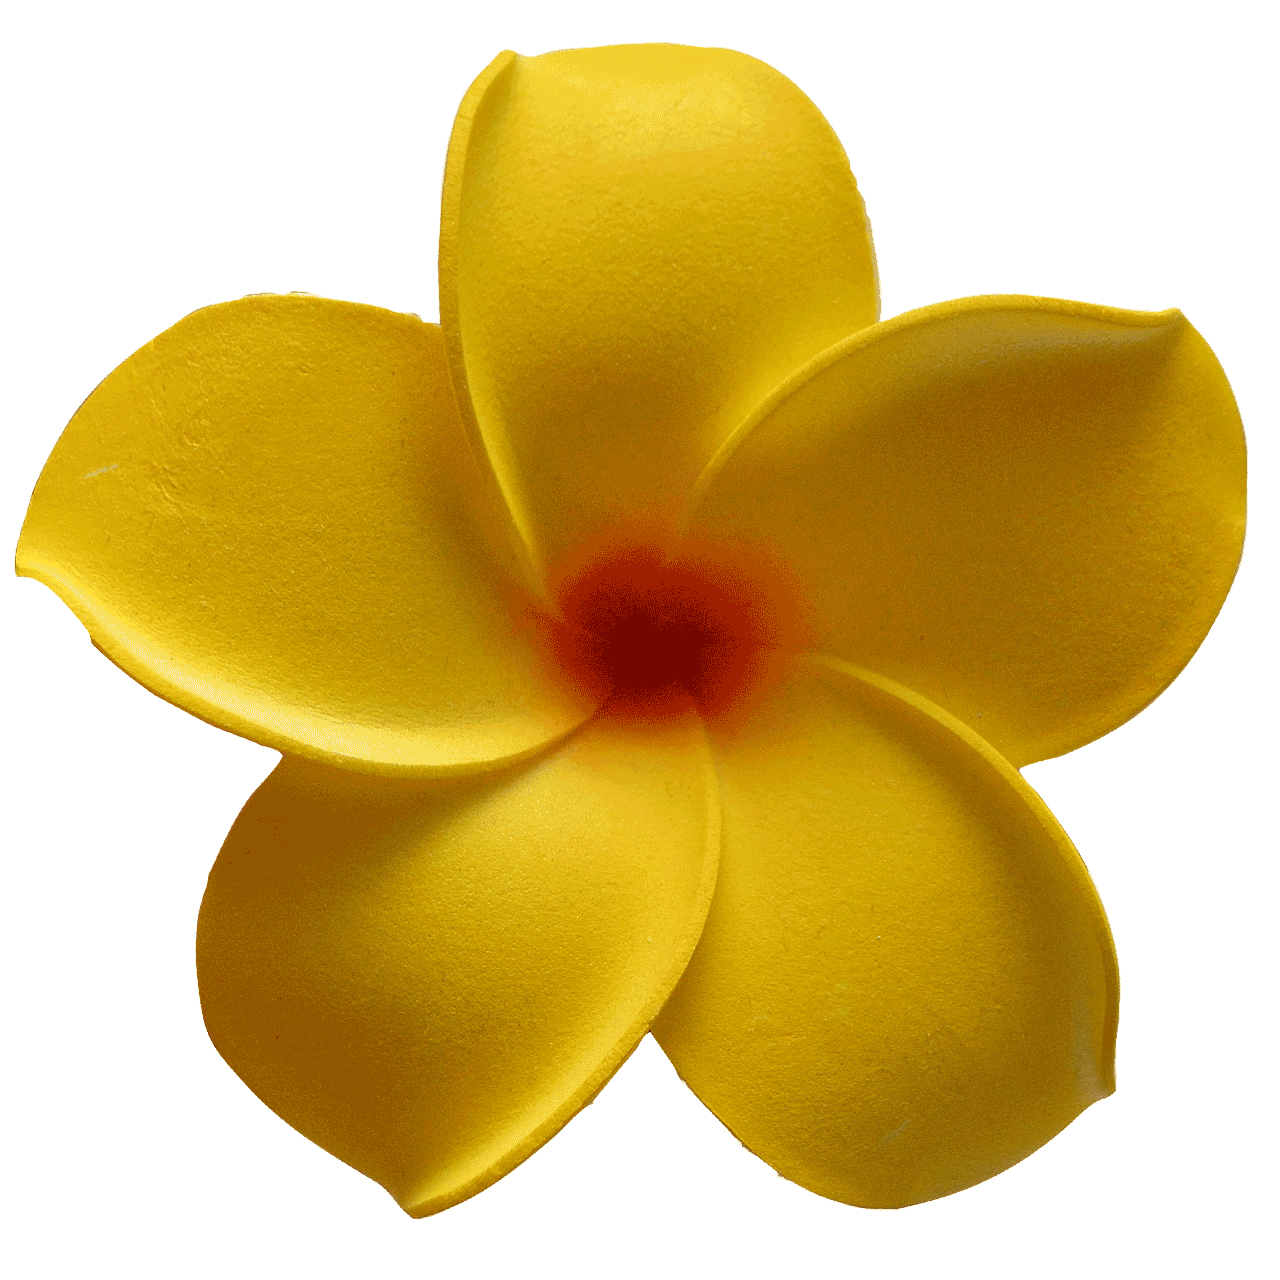
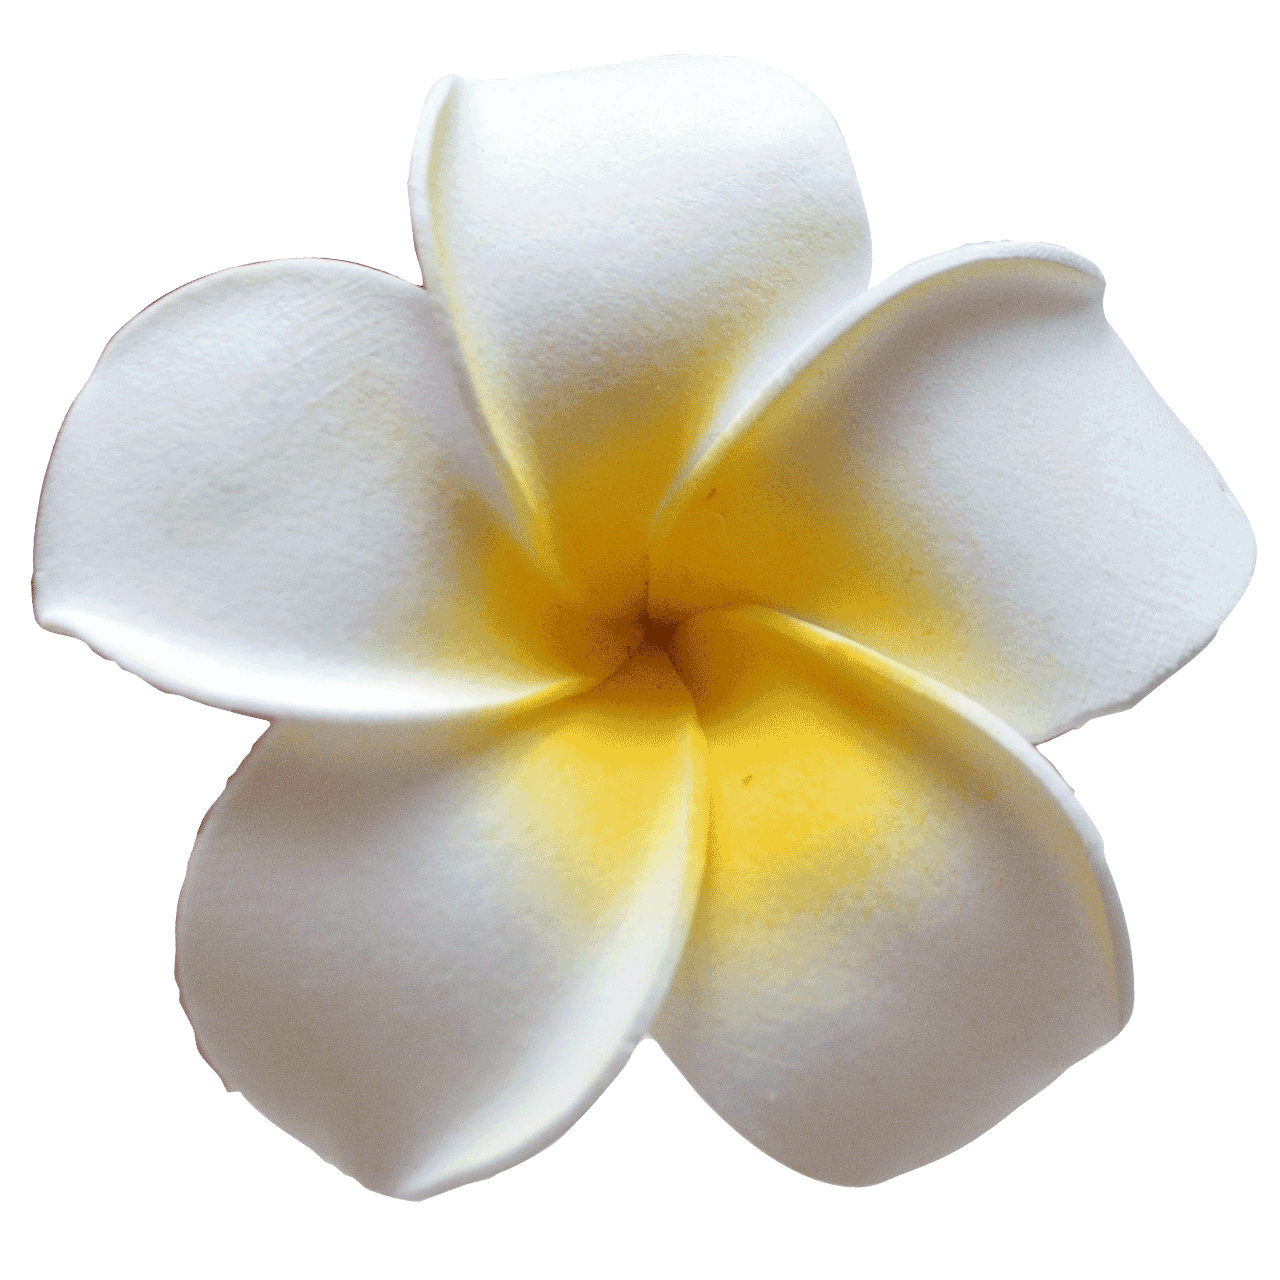
プルメリア変更

diff --git a/css/special.css b/css/special.css
@@ -232,6 +232,12 @@ figure {
     height: 120px;
 }
 
+.insta {
+    height:120px;
+    width:120px;
+    max-width: 100%;
+  }
+
 
 .insta_btn {
     height:120px;
@@ -291,19 +297,29 @@ figure {
         height: 30%;
     }
 }
-#wrapper_rainbow {
-    text-align:center;
+
+@media(max-width: 768px) {
+    #wrapper_rainbow {
+        margin-top:30px;
+        display: flex;
+        text-align:center;
+    }
 }
 
 @media(min-width: 768px) {
     #wrapper_rainbow {
+        margin-top:30px;
         text-align:right;
-        margin-right:20px;
+        margin-right:30px;
     }
 }
 
 .plumeria {
-    width:10%;
-    text-align:right;
+    width:70%;
+}
 
+@media(min-width: 768px) {
+    .plumeria {
+        width:10%;
+    }
 }

diff --git a/index.html b/index.html
@@ -20,7 +20,13 @@
   <body>
     <div id="wrapper_rainbow">
         <a href="https://takareinhard.github.io/portfolio-pages/"
+        ><img class="plumeria" src="image/plumeria1.png" alt=""
+        /></a>
+        <a href="https://takareinhard.github.io/portfolio-pages/"
         ><img class="plumeria" src="image/plumeria3.png" alt=""
+        /></a>
+        <a href="https://takareinhard.github.io/portfolio-pages/"
+        ><img class="plumeria" src="image/plumeria2.png" alt=""
         /></a>
     </div>
       <header id="js-header" class="l-header">
